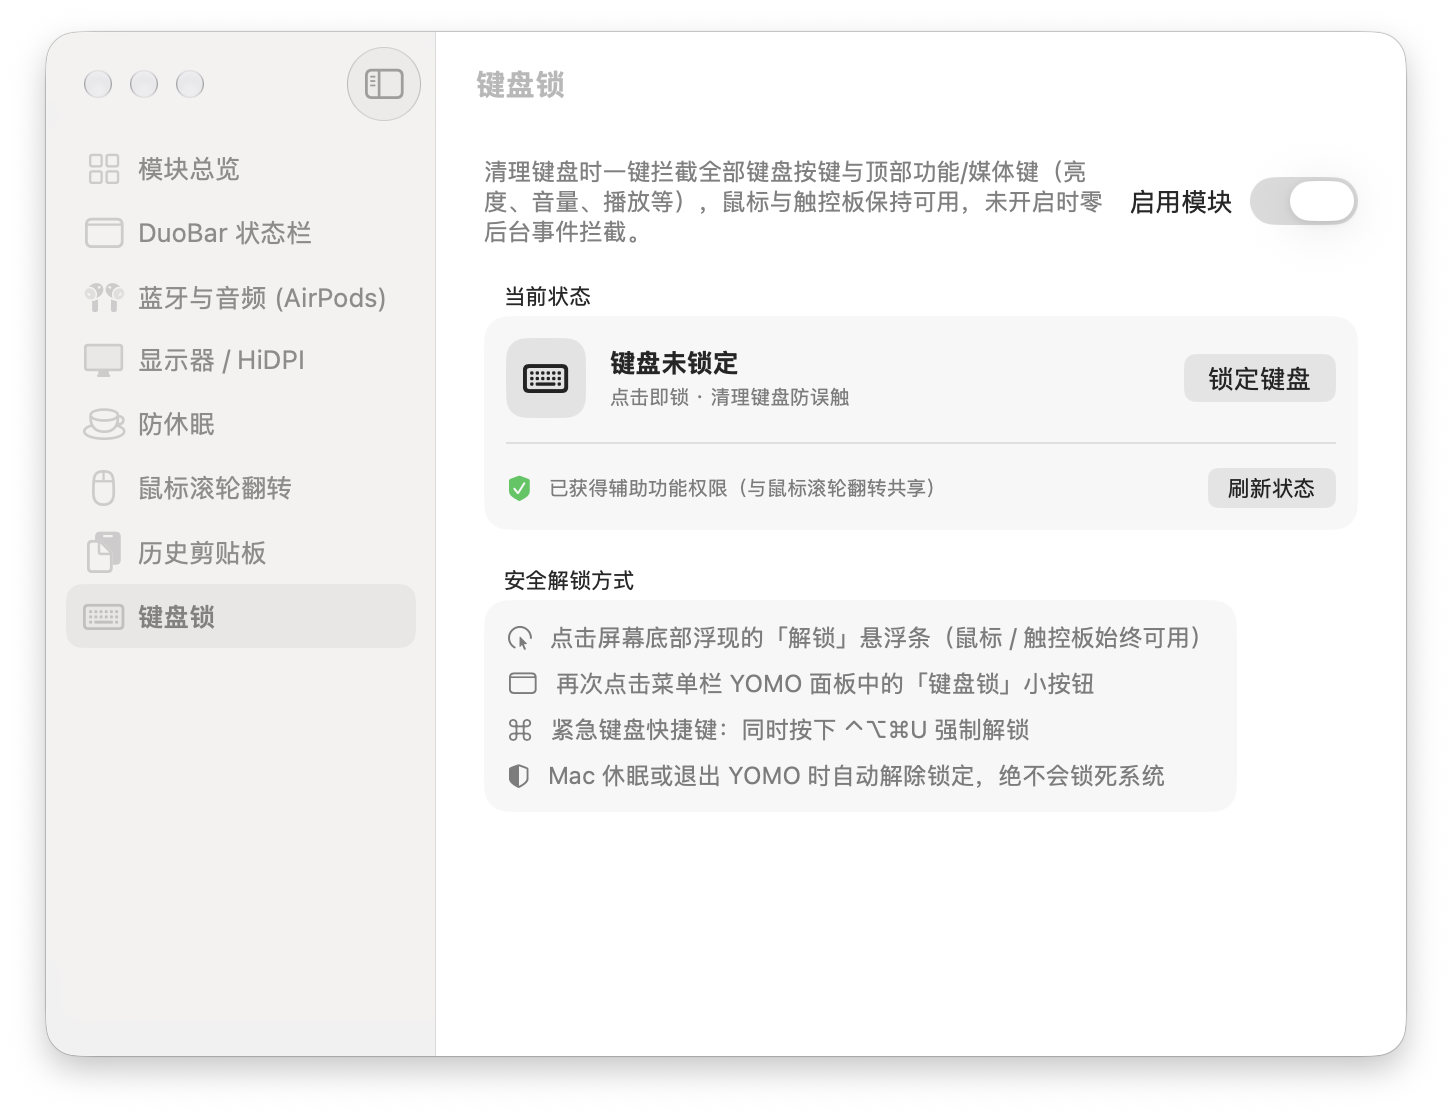
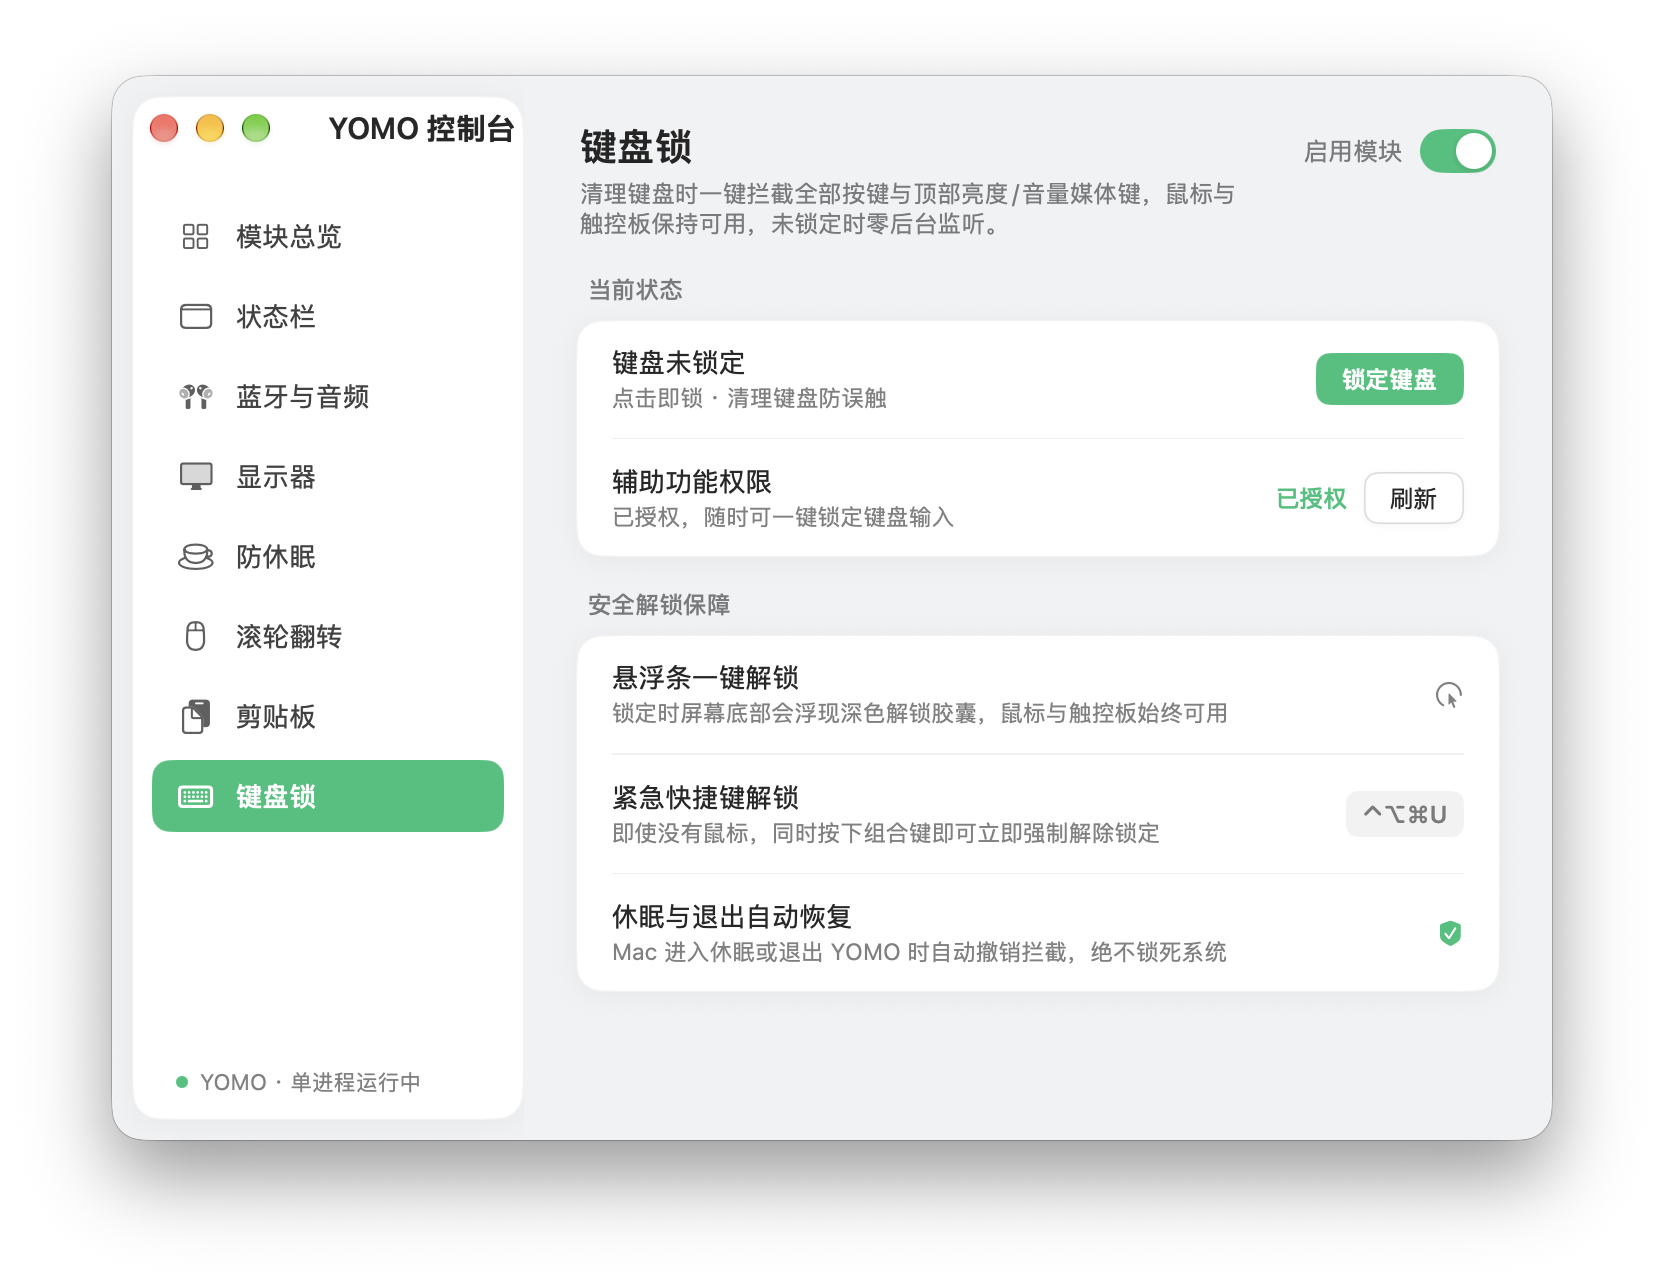
docs: update README & screenshots for v1.4.0 (Bento drag, OCR, Port Radar, Console 2.0)

diff --git a/README_EN.md b/README_EN.md
@@ -25,12 +25,12 @@
     <td align="center" width="38%">
       <img src="docs/screenshots/popover-overview.png" alt="YOMO Liquid Glass Popover" width="290" />
       <br />
-      <sub><b>Liquid Glass Popover</b> · Connectivity, battery, audio &amp; telemetry in one glance</sub>
+      <sub><b>Liquid Glass Popover</b> · 120Hz drag-and-drop Bento grid with 1x / 2x / 4x tile resizing</sub>
     </td>
     <td align="center" width="62%">
       <img src="docs/screenshots/console-dashboard.png" alt="YOMO Hub Console" width="490" />
       <br />
-      <sub><b>PowerToys-Style Hub Console</b> · Toggle modules on demand with zero idle overhead</sub>
+      <sub><b>Floating-Sidebar Hub Console</b> · Modern card-based UI with on-demand module toggles</sub>
     </td>
   </tr>
 </table>
@@ -86,7 +86,7 @@ Every extension module can be enabled or disabled independently in **Hub Console
       <p><b>Highlights</b></p>
       <ul>
         <li><b>Real-Time Hardware Overview</b>: CPU load &amp; sparkline, load average, segmented memory bar (App / Wired / Compressed) with kernel pressure level, disk availability, local IP, and live upload/download speeds.</li>
-        <li><b>On-Demand Top Processes</b>: Samples top CPU and memory processes only while the Telemetry subpage is open, with a one-click jump to Activity Monitor.</li>
+        <li><b>On-Demand Top Processes &amp; Listening Port Radar</b>: Samples top CPU and memory processes only while open, plus a native <b>Listening Port Radar</b> tab with live search, safe process termination, one-click <code>sudo</code> kill command copy for root services, and a shortcut to Activity Monitor.</li>
         <li><b>Quick Wi-Fi Controls</b>: View band (2.4G / 5G / 6G), RSSI, and link speed, toggle Wi-Fi power, and scan/join nearby networks on demand.</li>
         <li><b>Deep Battery Insights</b>: Battery health, cycle count, wattage, estimated time remaining, and one-click Low Power Mode toggle.</li>
       </ul>
@@ -197,7 +197,7 @@ Every extension module can be enabled or disabled independently in **Hub Console
 
 ---
 
-### 6. Clipboard History
+### 6. Clipboard History &amp; Vision OCR
 
 <table>
   <tr>
@@ -209,6 +209,7 @@ Every extension module can be enabled or disabled independently in **Hub Console
       <ul>
         <li><b>Instant Global Hotkey (<code>⇧⌘V</code>)</b>: Zero-permission native Carbon global shortcut lets you summon Clipboard History from any app.</li>
         <li><b>Text &amp; Image History</b>: Automatically records copied text and screenshots (with off-main-thread PNG encoding), displaying source app icons and relative timestamps.</li>
+        <li><b>On-Demand Vision OCR &amp; QR/Barcode Scanning</b>: Extract text (OCR) and scan QR/barcodes directly from any copied image using Apple's native offline <code>Vision</code> framework.</li>
         <li><b>Privacy-Aware Filtering</b>: Automatically skips sensitive pasteboard types (<code>ConcealedType</code> / <code>TransientType</code>) and password managers (Apple Passwords, 1Password, Bitwarden, KeePassXC, etc.).</li>
         <li><b>Search, Pin &amp; Auto-Cleanup</b>: Instant search by text or source app, All / Text / Image / Pinned filters, one-click pinning, and a configurable auto-cleanup timer with custom retention hours.</li>
       </ul>
@@ -255,6 +256,7 @@ Every extension module can be enabled or disabled independently in **Hub Console
     </td>
     <td width="62%" valign="top">
       <ul>
+        <li><b>Drag-and-Drop Bento Grid</b>: Reorder tiles directly at 120Hz in the popover, or enter Layout Mode to resize tiles (<code>1x / 2x / 4x</code>) with smart first-fit row packing.</li>
         <li><b>Three Glass Themes</b>: Switch live between <code>Dark Smoked</code>, <code>Light Frosted</code>, and <code>Follow System</code>.</li>
         <li><b>Badge Personalization</b>: Combine 4 menu bar badge layouts with semantic colors or monochrome templates.</li>
         <li><b>Refresh Cadence</b>: Choose <code>1s</code>, <code>2s</code>, or <code>3s</code> sampling intervals.</li>
@@ -270,7 +272,7 @@ Every extension module can be enabled or disabled independently in **Hub Console
 
 ### Option 1: Download Release DMG (Recommended)
 
-1. Download **`YOMO-v1.3.0.dmg`** from the [Releases page](https://github.com/vvkis/YOMO/releases) (clean **`YOMO-v1.3.0-source.zip`** and `SHA256SUMS.txt` are also provided).
+1. Download **`YOMO-v1.4.0.dmg`** from the [Releases page](https://github.com/vvkis/YOMO/releases) (clean **`YOMO-v1.4.0-source.zip`** and `SHA256SUMS.txt` are also provided).
 2. Open the `.dmg` and drag **`YOMO.app`** into **`Applications`**.
 3. Launch **YOMO**, open **Appearance & Style**, and enable **Launch at Login**.
 
@@ -305,7 +307,7 @@ open dist/YOMO.app
 
 # 3. (Optional) Build Release DMG + clean source ZIP + SHA256 checksums
 ./scripts/build-release.sh
-# Outputs: dist/YOMO-v1.3.0.dmg, dist/YOMO-v1.3.0-source.zip, dist/SHA256SUMS.txt
+# Outputs: dist/YOMO-v1.4.0.dmg, dist/YOMO-v1.4.0-source.zip, dist/SHA256SUMS.txt
 ```
 
 ### Permissions
